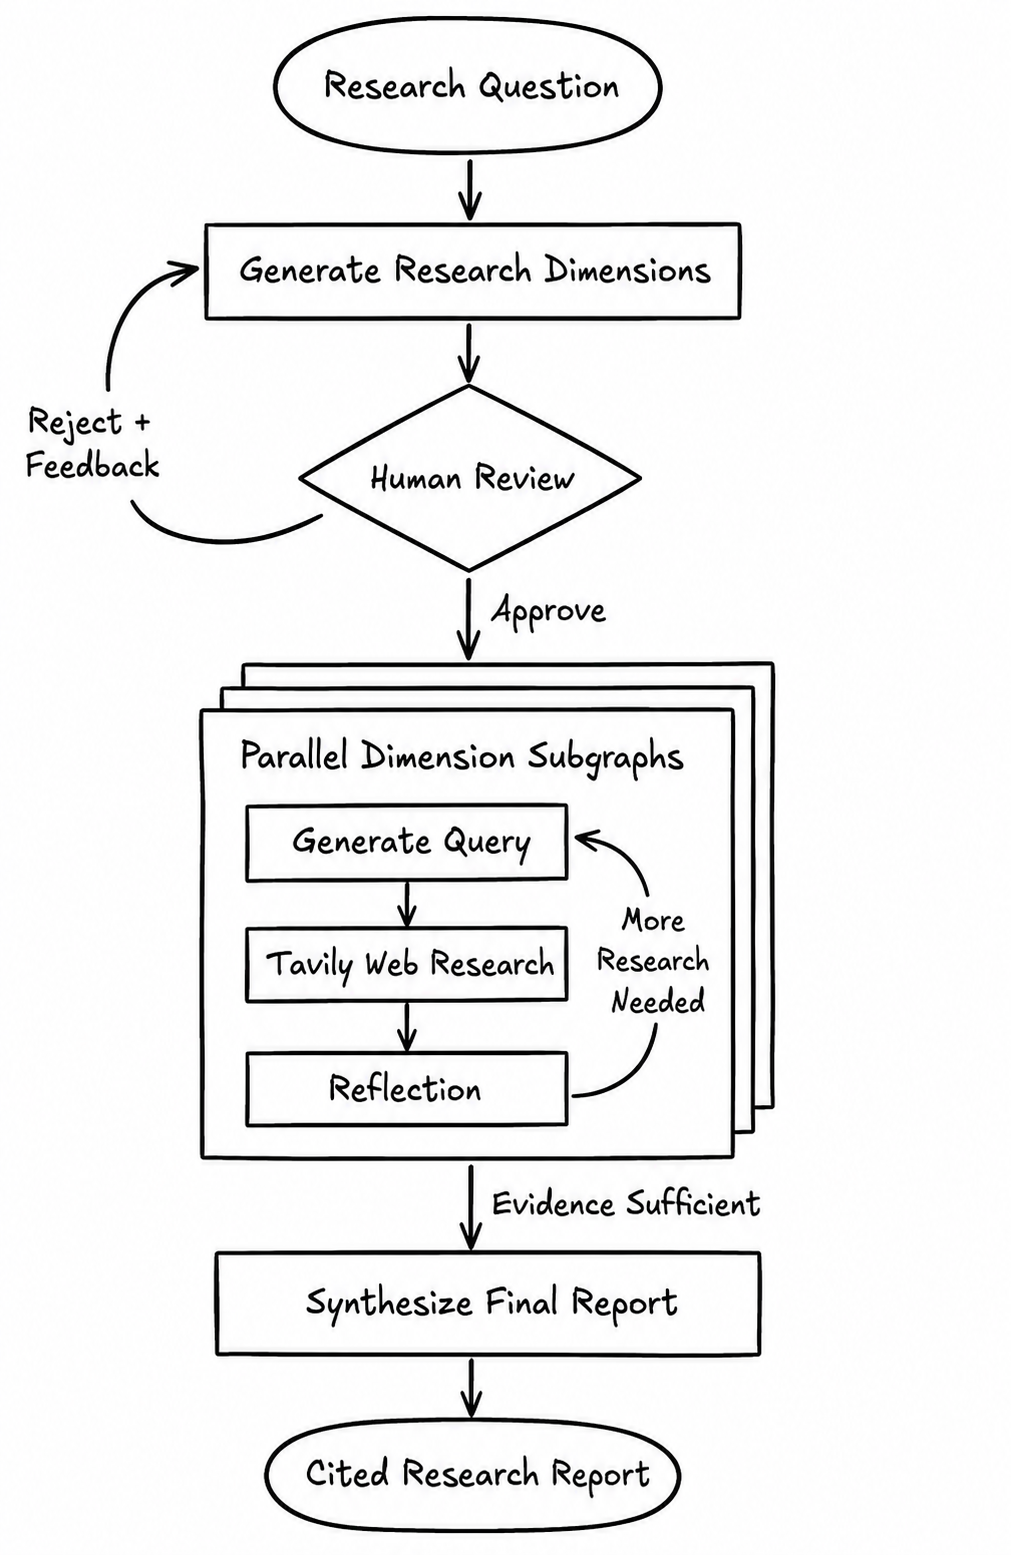
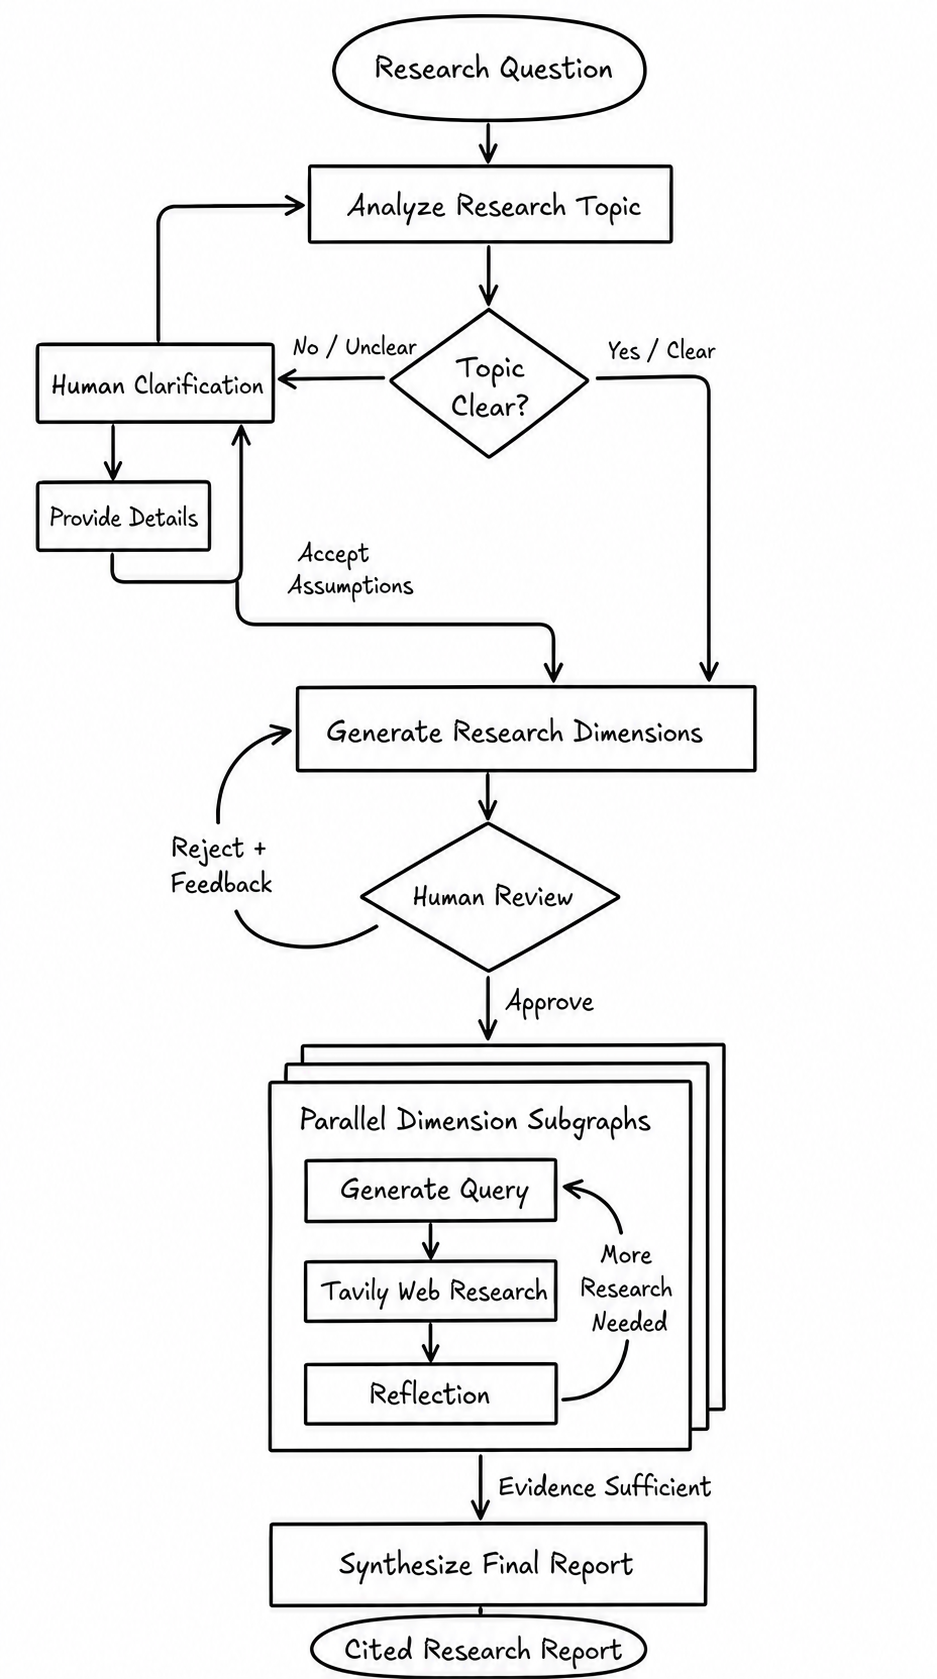
Document topic clarification workflow

Changed region(s): [[0.0309, 0.0, 0.8047, 1.0]]

diff --git a/README.md b/README.md
@@ -21,8 +21,8 @@ research loop. This fork introduces the following changes:
 | --- | --- | --- |
 | LLM backend | Google Gemini | DeepSeek through its OpenAI-compatible API |
 | Web search | Google Search | Tavily Search |
-| Research planning | Generate queries directly from the question | Decompose the question into multiple complementary research dimensions |
-| Human control | No approval gate | Human-in-the-loop approval and feedback before research starts |
+| Research planning | Generate queries directly from the question | Clarify materially ambiguous topics, then decompose them into complementary research dimensions |
+| Human control | No approval gate | Human-in-the-loop topic clarification plus dimension approval and feedback loops |
 | Execution model | One research loop | One isolated subgraph per dimension, executed in parallel |
 | Reflection | Reflect on the overall search result | Reflect independently per dimension and return knowledge gaps to query generation |
 | Reliability | Search errors terminate the run | Tavily retries and individual-query failure degradation |
@@ -30,10 +30,10 @@ research loop. This fork introduces the following changes:
 | Result isolation | Shared accumulated state | Per-run IDs isolate sources and dimension results |
 | Browser continuity | In-memory frontend session | LangGraph thread ID persisted for page-reload recovery |
 
-Additional frontend improvements include a dimension review dialog, readable
-dark-theme approval controls, an auto-scrolling activity timeline, configurable
-API URL, explicit loading and error states, and safe wrapping for long report
-content.
+Additional frontend improvements include topic clarification and dimension
+review dialogs, readable dark-theme controls, an auto-scrolling activity
+timeline, configurable API URL, explicit loading and error states, and safe
+wrapping for long report content.
 
 ## Current Workflow
 
@@ -41,21 +41,29 @@ The backend graph is defined in
 [`backend/src/research_agent/graph.py`](backend/src/research_agent/graph.py).
 
 <p align="center">
-  <img src="./agent.png" title="Current research workflow" alt="Human-reviewed multidimensional research workflow" width="65%">
+  <img src="./agent.png" title="Current research workflow" alt="Topic clarification and human-reviewed multidimensional research workflow" width="65%">
 </p>
 
 ### Parent graph
 
-1. **Generate research dimensions.** DeepSeek decomposes the question into
-   distinct, complementary, independently researchable dimensions.
-2. **Human review.** LangGraph pauses with `interrupt()` and displays the
+1. **Analyze the research topic.** DeepSeek checks whether missing context or
+   material ambiguity could change the research plan or conclusions. Broad but
+   otherwise usable requests continue without unnecessary questions.
+2. **Clarify when necessary.** If the topic is unclear, LangGraph pauses with
+   `interrupt()` and the frontend displays the ambiguities, prioritized
+   questions, and suggested assumptions. The user can provide details and
+   trigger another analysis pass, or explicitly accept the assumptions. This
+   loop continues until the topic is clear enough to plan.
+3. **Generate research dimensions.** DeepSeek uses the normalized research brief
+   to create distinct, complementary, independently researchable dimensions.
+4. **Human review.** LangGraph pauses again and displays the
    proposed dimensions in the frontend.
-3. **Approve or revise.** Approval starts research. Rejection requires feedback;
+5. **Approve or revise.** Approval starts research. Rejection requires feedback;
    the previous proposal and feedback are sent back to dimension generation.
    This loop continues until the user approves the plan.
-4. **Parallel dimension research.** The parent graph dispatches one isolated
+6. **Parallel dimension research.** The parent graph dispatches one isolated
    subgraph for every approved dimension.
-5. **Synthesize the report.** Completed dimension results are filtered to the
+7. **Synthesize the report.** Completed dimension results are filtered to the
    current research run, merged, and converted into a cited final report.
 
 ### Dimension subgraph
@@ -83,6 +91,8 @@ dimension completion in real time.
   final synthesis.
 - Tavily Search with configurable depth, result limits, retries, and partial
   failure handling.
+- Material-ambiguity detection with iterative human clarification and optional
+  acceptance of suggested assumptions.
 - Human-in-the-loop research-plan approval with iterative feedback.
 - Parallel research across independently isolated dimensions.
 - Reflection-driven follow-up queries within each dimension.
